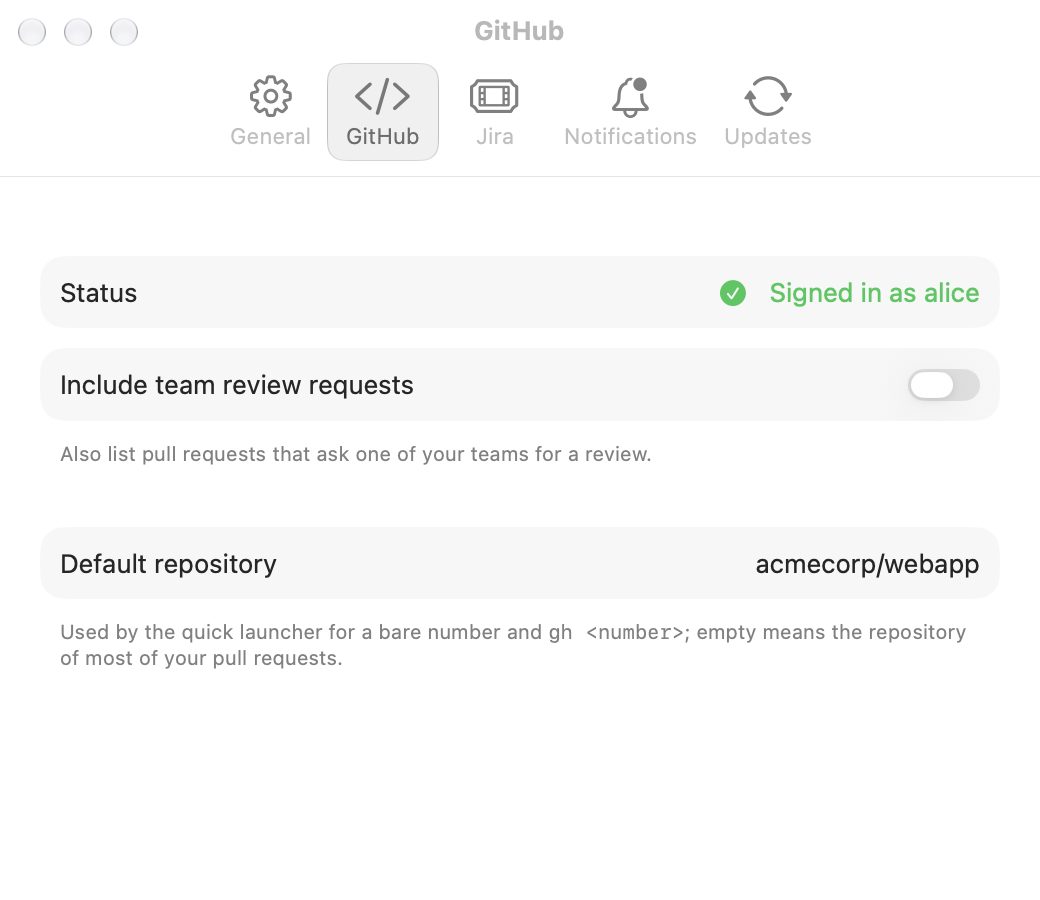
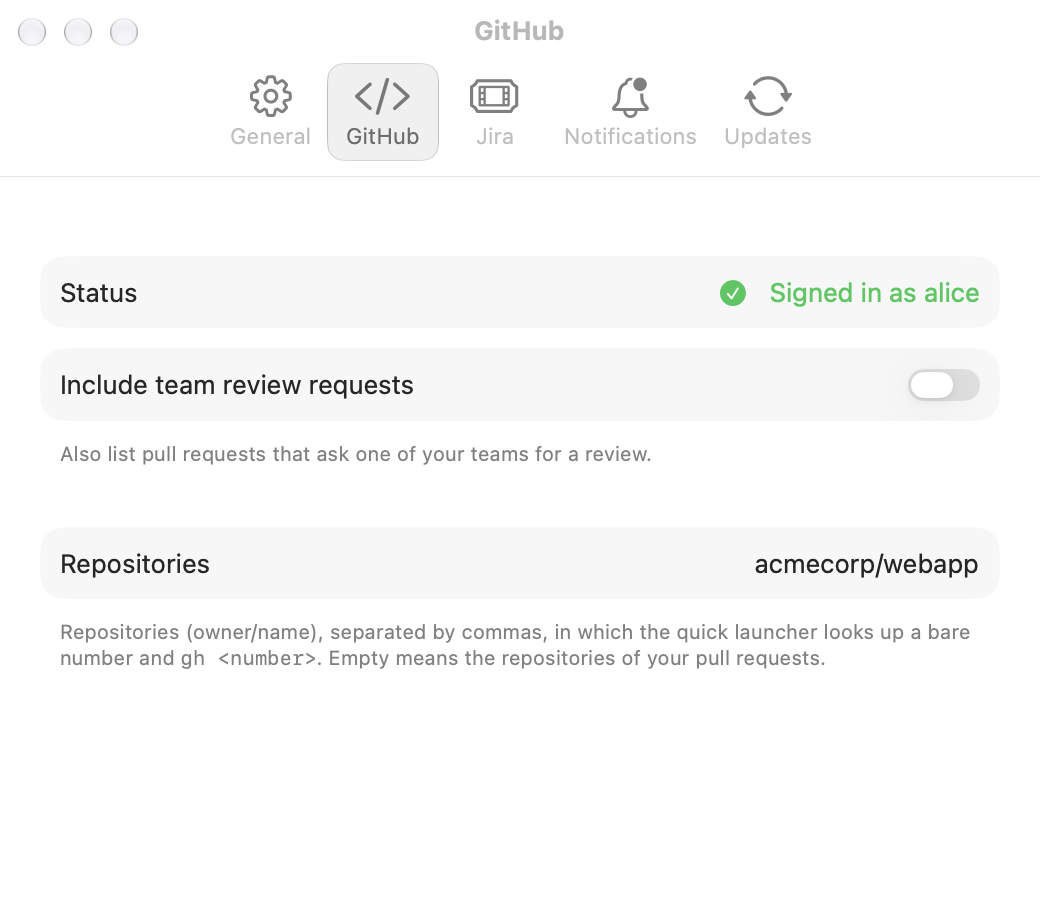
docs: the Repositories setting and its quick launcher rows

Changed region(s): [[0.0615, 0.6844, 0.9231, 0.7467], [0.7385, 0.6222, 0.9538, 0.6533], [0.0615, 0.6222, 0.2769, 0.6533]]

diff --git a/docs/cs/manual.html b/docs/cs/manual.html
@@ -127,7 +127,7 @@ gh auth login</code></pre>
         tyto prvky:</p>
         <figure class="fig" style="max-width:34rem">
           <div class="view" style="--iw:1040;--ih:900;--zh:77">
-            <img src="../assets/manual/devpulse-settings-github.png" alt="Záložka GitHub v nastavení: stav, týmové žádosti o review a výchozí repozitář">
+            <img src="../assets/manual/devpulse-settings-github.png" alt="Záložka GitHub v nastavení: stav, týmové žádosti o review a repozitáře">
             <span class="mark" style="--x:3.8;--y:28.5;--w:92.3;--h:7.9"><b>1</b></span>
             <span class="mark" style="--x:3.8;--y:38.7;--w:92.3;--h:8"><b>2</b></span>
             <span class="mark" style="--x:3.8;--y:58.6;--w:92.3;--h:8"><b>3</b></span>
@@ -147,11 +147,13 @@ gh auth login</code></pre>
           <dd>Ve výchozím stavu vypnuto. Zapnuté přidá do <b>Review requests</b>
           i pull requesty, které o review žádají některý z vašich týmů, ne jen
           vás.</dd>
-          <dt><span class="n">3</span>Default repository</dt>
-          <dd><code>owner/name</code>, které <a href="#launcher">rychlé hledání</a>
-          použije pro <code>gh &lt;číslo&gt;</code> a samotné číslo, když číslo nepatří žádnému
-          z vašich známých pull requestů. Prázdné pole znamená repozitář, ve
-          kterém máte nejvíc pull requestů; pole ho ukazuje šedě.</dd>
+          <dt><span class="n">3</span>Repositories</dt>
+          <dd>Repozitáře (<code>owner/name</code>, oddělené čárkou), ve kterých
+          <a href="#launcher">rychlé hledání</a> hledá samotné číslo a
+          <code>gh &lt;číslo&gt;</code>; u <code>gh &lt;číslo&gt;</code> řádek prvního z nich
+          zůstane, i když pull request neexistuje. Funguje i vložená adresa z GitHubu. Nejvýš deset.
+          Prázdné pole znamená repozitáře vašich pull requestů, nejdřív ten, kde jich máte nejvíc;
+          pole je ukazuje šedě.</dd>
         </dl>
       </section>
 
@@ -425,19 +427,19 @@ gh auth login</code></pre>
         </dl>
         <figure class="fig">
           <div class="view" style="--iw:1280;--ih:498">
-            <img src="../assets/manual/devpulse-launcher-number.png" alt="Rychlé hledání pro číslo 2290: žádost o review, tiket z Jiry, session Claude Code a řádek pro výchozí repozitář">
+            <img src="../assets/manual/devpulse-launcher-number.png" alt="Rychlé hledání pro číslo 2290: žádost o review, tiket z Jiry, session Claude Code a řádek pro repozitář z nastavení">
           </div>
-          <figcaption>Samotné číslo najde všechno, co ho nese: tady žádost o review #2290, tiket STORE-2290, session ve složce <code>store-2290-statement</code> a nakonec řádek, který otevře 2290 ve výchozím repozitáři.</figcaption>
+          <figcaption>Samotné číslo najde všechno, co ho nese: tady žádost o review #2290, tiket STORE-2290, session ve složce <code>store-2290-statement</code> a nakonec řádek, který otevře 2290 v repozitáři z nastavení.</figcaption>
         </figure>
         <div class="table">
           <table>
             <thead><tr><th>Napíšete</th><th>Výsledek</th></tr></thead>
             <tbody>
-              <tr><td><code>2474</code></td><td>Všechno s tímto číslem: vaše pull requesty a žádosti o review s číslem 2474 v libovolném repozitáři, za nimi vaše tikety a tikety vašich pull requestů s číslem 2474 v libovolném projektu (<code>STORE-2474</code>, <code>WA-2474</code>) a sessions Claude Code, jejichž klíč z Jiry nebo název složky toto číslo obsahuje (<code>store-2474-fix</code>, ale ne <code>store-24740</code>). Nakonec pull request 2474 ve <a href="#github">výchozím repozitáři</a> a tiket 2474 v každém z vašich <a href="#jira">projektů</a> (<code>STORE-2474</code>, <code>WA-2474</code>), pokud už v seznamu nejsou. Jakmile přestanete psát, DevPulse tyto řádky dohledá: ukážou název a stav a tikety nebo pull requesty, které neexistují, zmizí.</td></tr>
+              <tr><td><code>2474</code></td><td>Všechno s tímto číslem: vaše pull requesty a žádosti o review s číslem 2474 v libovolném repozitáři, za nimi vaše tikety a tikety vašich pull requestů s číslem 2474 v libovolném projektu (<code>STORE-2474</code>, <code>WA-2474</code>) a sessions Claude Code, jejichž klíč z Jiry nebo název složky toto číslo obsahuje (<code>store-2474-fix</code>, ale ne <code>store-24740</code>). Nakonec pull request 2474 v každém z vašich <a href="#github">repozitářů</a> a tiket 2474 v každém z vašich <a href="#jira">projektů</a> (<code>STORE-2474</code>, <code>WA-2474</code>), pokud už v seznamu nejsou. Jakmile přestanete psát, DevPulse tyto řádky dohledá: ukážou název a stav a tikety nebo pull requesty, které neexistují, zmizí.</td></tr>
               <tr><td><code>gh</code></td><td>Vaše pull requesty, za nimi žádosti o review.</td></tr>
               <tr><td><code>gh invoice</code></td><td>Ty, jejichž název nebo repozitář text obsahuje.</td></tr>
-              <tr><td><code>gh 812</code></td><td>Váš pull request nebo žádost o review s tímto číslem. Když takový nemáte, pull request 812 ve <a href="#github">výchozím repozitáři</a> s názvem a stavem, nebo <span class="ui">Not found on GitHub</span>.</td></tr>
-              <tr><td><code>gh webapp 455</code></td><td>Pull request 455 v daném repozitáři: stačí název repozitáře, ve kterém máte pull requesty, nebo celé <code>owner/name</code>.</td></tr>
+              <tr><td><code>gh 812</code></td><td>Vaše pull requesty a žádosti o review s tímto číslem, za nimi pull request 812 v každém z vašich <a href="#github">repozitářů</a> s názvem a stavem. Řádek prvního repozitáře zůstane, i když pull request neexistuje, jako <span class="ui">Not found on GitHub</span>.</td></tr>
+              <tr><td><code>gh webapp 455</code></td><td>Pull request 455 v daném repozitáři: stačí název jednoho z vašich <a href="#github">repozitářů</a> nebo repozitáře, ve kterém máte pull requesty, nebo celé <code>owner/name</code>.</td></tr>
               <tr><td><code>jira</code></td><td>Vaše tikety.</td></tr>
               <tr><td><code>jira export</code></td><td>Ty, jejichž název nebo klíč text obsahuje.</td></tr>
               <tr><td><code>jira STORE-2290</code></td><td>Tento tiket, i když ve vašem seznamu není, s názvem a stavem, nebo <span class="ui">Not found in Jira</span>.</td></tr>

diff --git a/docs/manual.html b/docs/manual.html
@@ -127,7 +127,7 @@ gh auth login</code></pre>
         has these controls:</p>
         <figure class="fig" style="max-width:34rem">
           <div class="view" style="--iw:1040;--ih:900;--zh:77">
-            <img src="assets/manual/devpulse-settings-github.png" alt="The GitHub tab of Settings: status, team review requests and default repository">
+            <img src="assets/manual/devpulse-settings-github.png" alt="The GitHub tab of Settings: status, team review requests and repositories">
             <span class="mark" style="--x:3.8;--y:28.5;--w:92.3;--h:7.9"><b>1</b></span>
             <span class="mark" style="--x:3.8;--y:38.7;--w:92.3;--h:8"><b>2</b></span>
             <span class="mark" style="--x:3.8;--y:58.6;--w:92.3;--h:8"><b>3</b></span>
@@ -146,11 +146,13 @@ gh auth login</code></pre>
           <dt><span class="n">2</span>Include team review requests</dt>
           <dd>Off by default. When on, <b>Review requests</b> also lists pull
           requests that ask one of your teams for a review, not only you.</dd>
-          <dt><span class="n">3</span>Default repository</dt>
-          <dd>The <code>owner/name</code> the <a href="#launcher">quick launcher</a>
-          uses for <code>gh &lt;number&gt;</code> and a bare number when the
-          number is not one of your known pull requests. Empty means the repository of most of your
-          pull requests; the field shows it in grey.</dd>
+          <dt><span class="n">3</span>Repositories</dt>
+          <dd>The repositories (<code>owner/name</code>, separated by commas) in which the
+          <a href="#launcher">quick launcher</a> looks up a bare number and
+          <code>gh &lt;number&gt;</code>; for <code>gh &lt;number&gt;</code>, the first one's row
+          stays even when the pull request does not exist. A pasted GitHub address works too. Up to
+          ten. Empty means the repositories of your pull requests, most pull requests first; the
+          field shows them in grey.</dd>
         </dl>
       </section>
 
@@ -423,19 +425,19 @@ gh auth login</code></pre>
         </dl>
         <figure class="fig">
           <div class="view" style="--iw:1280;--ih:498">
-            <img src="assets/manual/devpulse-launcher-number.png" alt="The quick launcher for the number 2290: a review request, a Jira ticket, a Claude Code session and a row for the default repository">
+            <img src="assets/manual/devpulse-launcher-number.png" alt="The quick launcher for the number 2290: a review request, a Jira ticket, a Claude Code session and a row for a repository in Settings">
           </div>
-          <figcaption>A bare number finds everything with it: here the review request #2290, the ticket STORE-2290, the session in <code>store-2290-statement</code> and, last, a row that opens 2290 in the default repository.</figcaption>
+          <figcaption>A bare number finds everything with it: here the review request #2290, the ticket STORE-2290, the session in <code>store-2290-statement</code> and, last, a row that opens 2290 in a repository from Settings.</figcaption>
         </figure>
         <div class="table">
           <table>
             <thead><tr><th>Type</th><th>Result</th></tr></thead>
             <tbody>
-              <tr><td><code>2474</code></td><td>Everything with that number: your pull requests and review requests numbered 2474 in any repository, then your tickets and your pull requests' tickets numbered 2474 in any project (<code>STORE-2474</code>, <code>WA-2474</code>), then the Claude Code sessions whose Jira key or folder name has that number (<code>store-2474-fix</code>, but not <code>store-24740</code>). Last, pull request 2474 of the <a href="#github">default repository</a> and ticket 2474 of each of your <a href="#jira">projects</a> (<code>STORE-2474</code>, <code>WA-2474</code>), unless they are already in the list. Once you stop typing, DevPulse looks these rows up: they show their title and state, and tickets or pull requests that do not exist disappear.</td></tr>
+              <tr><td><code>2474</code></td><td>Everything with that number: your pull requests and review requests numbered 2474 in any repository, then your tickets and your pull requests' tickets numbered 2474 in any project (<code>STORE-2474</code>, <code>WA-2474</code>), then the Claude Code sessions whose Jira key or folder name has that number (<code>store-2474-fix</code>, but not <code>store-24740</code>). Last, pull request 2474 of each of your <a href="#github">repositories</a> and ticket 2474 of each of your <a href="#jira">projects</a> (<code>STORE-2474</code>, <code>WA-2474</code>), unless they are already in the list. Once you stop typing, DevPulse looks these rows up: they show their title and state, and tickets or pull requests that do not exist disappear.</td></tr>
               <tr><td><code>gh</code></td><td>Your pull requests, then your review requests.</td></tr>
               <tr><td><code>gh invoice</code></td><td>Those whose title or repository contains the text.</td></tr>
-              <tr><td><code>gh 812</code></td><td>Your pull request or review request with that number. If you have none, pull request 812 of the <a href="#github">default repository</a>, with its title and state, or <span class="ui">Not found on GitHub</span>.</td></tr>
-              <tr><td><code>gh webapp 455</code></td><td>Pull request 455 in that repository: the name of a repository you have pull requests in, or a full <code>owner/name</code>.</td></tr>
+              <tr><td><code>gh 812</code></td><td>Your pull requests and review requests with that number, then pull request 812 of each of your <a href="#github">repositories</a> with its title and state. The row of the first repository stays even when the pull request does not exist, as <span class="ui">Not found on GitHub</span>.</td></tr>
+              <tr><td><code>gh webapp 455</code></td><td>Pull request 455 in that repository: the name of one of your <a href="#github">repositories</a> or of a repository you have pull requests in, or a full <code>owner/name</code>.</td></tr>
               <tr><td><code>jira</code></td><td>Your tickets.</td></tr>
               <tr><td><code>jira export</code></td><td>Those whose summary or key contains the text.</td></tr>
               <tr><td><code>jira STORE-2290</code></td><td>That ticket, even when it is not in your list, with its summary and status, or <span class="ui">Not found in Jira</span>.</td></tr>

diff --git a/docs/superpowers/specs/2026-11-19-devpulse-design.md b/docs/superpowers/specs/2026-11-19-devpulse-design.md
@@ -329,11 +329,11 @@ configurable in Settings and must not collide with the system Spotlight shortcut
 
 | Typed | Result |
 |---|---|
-| `<number>` | everything with that number: my PRs and review requests in any repo, my tickets and my PRs' tickets in any project, sessions whose key or folder has it; then the PR in the default repo and the ticket in each of the Settings' Jira projects (up to 10; empty = the projects of my tickets). Those rows are looked up after a 300 ms typing pause (one Jira bulk fetch for all keys, one GitHub `GET /repos/{repo}/pulls/{n}`, answers cached 5 min) to show title and state; ones that do not exist are dropped |
+| `<number>` | everything with that number: my PRs and review requests in any repo, my tickets and my PRs' tickets in any project, sessions whose key or folder has it; then the PR in each of the Settings' GitHub repositories and the ticket in each of its Jira projects (up to 10 each; empty = the repos of my PRs / projects of my tickets). Those rows are looked up after a 300 ms typing pause (one Jira bulk fetch for all keys, one GitHub GraphQL request with an aliased `repository { pullRequest }` per repo, answers cached 5 min) to show title and state; ones that do not exist are dropped |
 | `gh` | my PRs and review requests; arrows select, `Enter` opens |
 | `gh <text>` | filters by title or repo |
-| `gh <number>` | filters known PRs to that number. If exactly one matches, `Enter` opens it. If none matches, `Enter` opens `<default repo>/pull/<number>`. The default repo is set in Settings and pre-filled with the repo of most of my PRs. |
-| `gh <repo> <number>` | opens that PR in that repo. `<repo>` is a repo name of a known PR (e.g. `webapp`) or a full `owner/name`. |
+| `gh <number>` | known PRs with that number, then PR `<number>` in each repository from Settings (looked up like a bare number's rows); the first repository's row stays as "Not found on GitHub" when the PR does not exist. Without repositories: those of my PRs, most PRs first. |
+| `gh <repo> <number>` | opens that PR in that repo. `<repo>` is the name of a repository from Settings or of a known PR (e.g. `webapp`), or a full `owner/name`. |
 | `jira` | my tickets |
 | `jira <text>` | filters by summary |
 | `jira <KEY-123>` | opens that ticket, even if it is not in my list; looked up like a bare number's rows, and "Not found in Jira" when it does not exist |

diff --git a/development_workflow.md b/development_workflow.md
@@ -140,8 +140,8 @@ A demo runs next to an installed DevPulse without touching it:
 - It serves its own socket, `~/Library/Application Support/DevPulse/devpulse-demo.sock`, and
   registers no launcher hotkey.
 - Its settings live in the defaults suite `io.jp4.devpulse.demo`, filled at every launch with
-  example values (Jira site `acme.atlassian.net`, e-mail `alice@acme.example`, default
-  repository `acmecorp/webapp`). The Jira tab shows a saved token without touching the
+  example values (Jira site `acme.atlassian.net`, e-mail `alice@acme.example`, repository
+  `acmecorp/webapp`). The Jira tab shows a saved token without touching the
   Keychain; Save and Test Connection refuse. General shows launch at login on and the command
   line tool installed. Remove the suite afterwards: `defaults delete io.jp4.devpulse.demo`.
 - `-DevPulseDemoOpen <what>` opens a window right after launch, so no hotkey or menu bar click

diff --git a/CHANGELOG.md b/CHANGELOG.md
@@ -1,5 +1,14 @@
 # Changelog
 
+## Unreleased
+
+- Settings › GitHub › Repositories: list the repositories (`owner/name`, or a pasted GitHub
+  address) in which the quick launcher looks up a bare number and `gh <number>`; it shows a row
+  for each of them with the pull request's title and state. It replaces the single default
+  repository, and your earlier choice is kept as the first entry.
+- `gh <name> <number>` also knows the repositories from that list by their name.
+- The quick launcher asks GitHub about all those pull requests in one request.
+
 ## 0.10.0 — 2026-11-22
 
 - Settings › Jira › Projects: list the Jira projects (`STORE, WA`) in which the quick launcher
